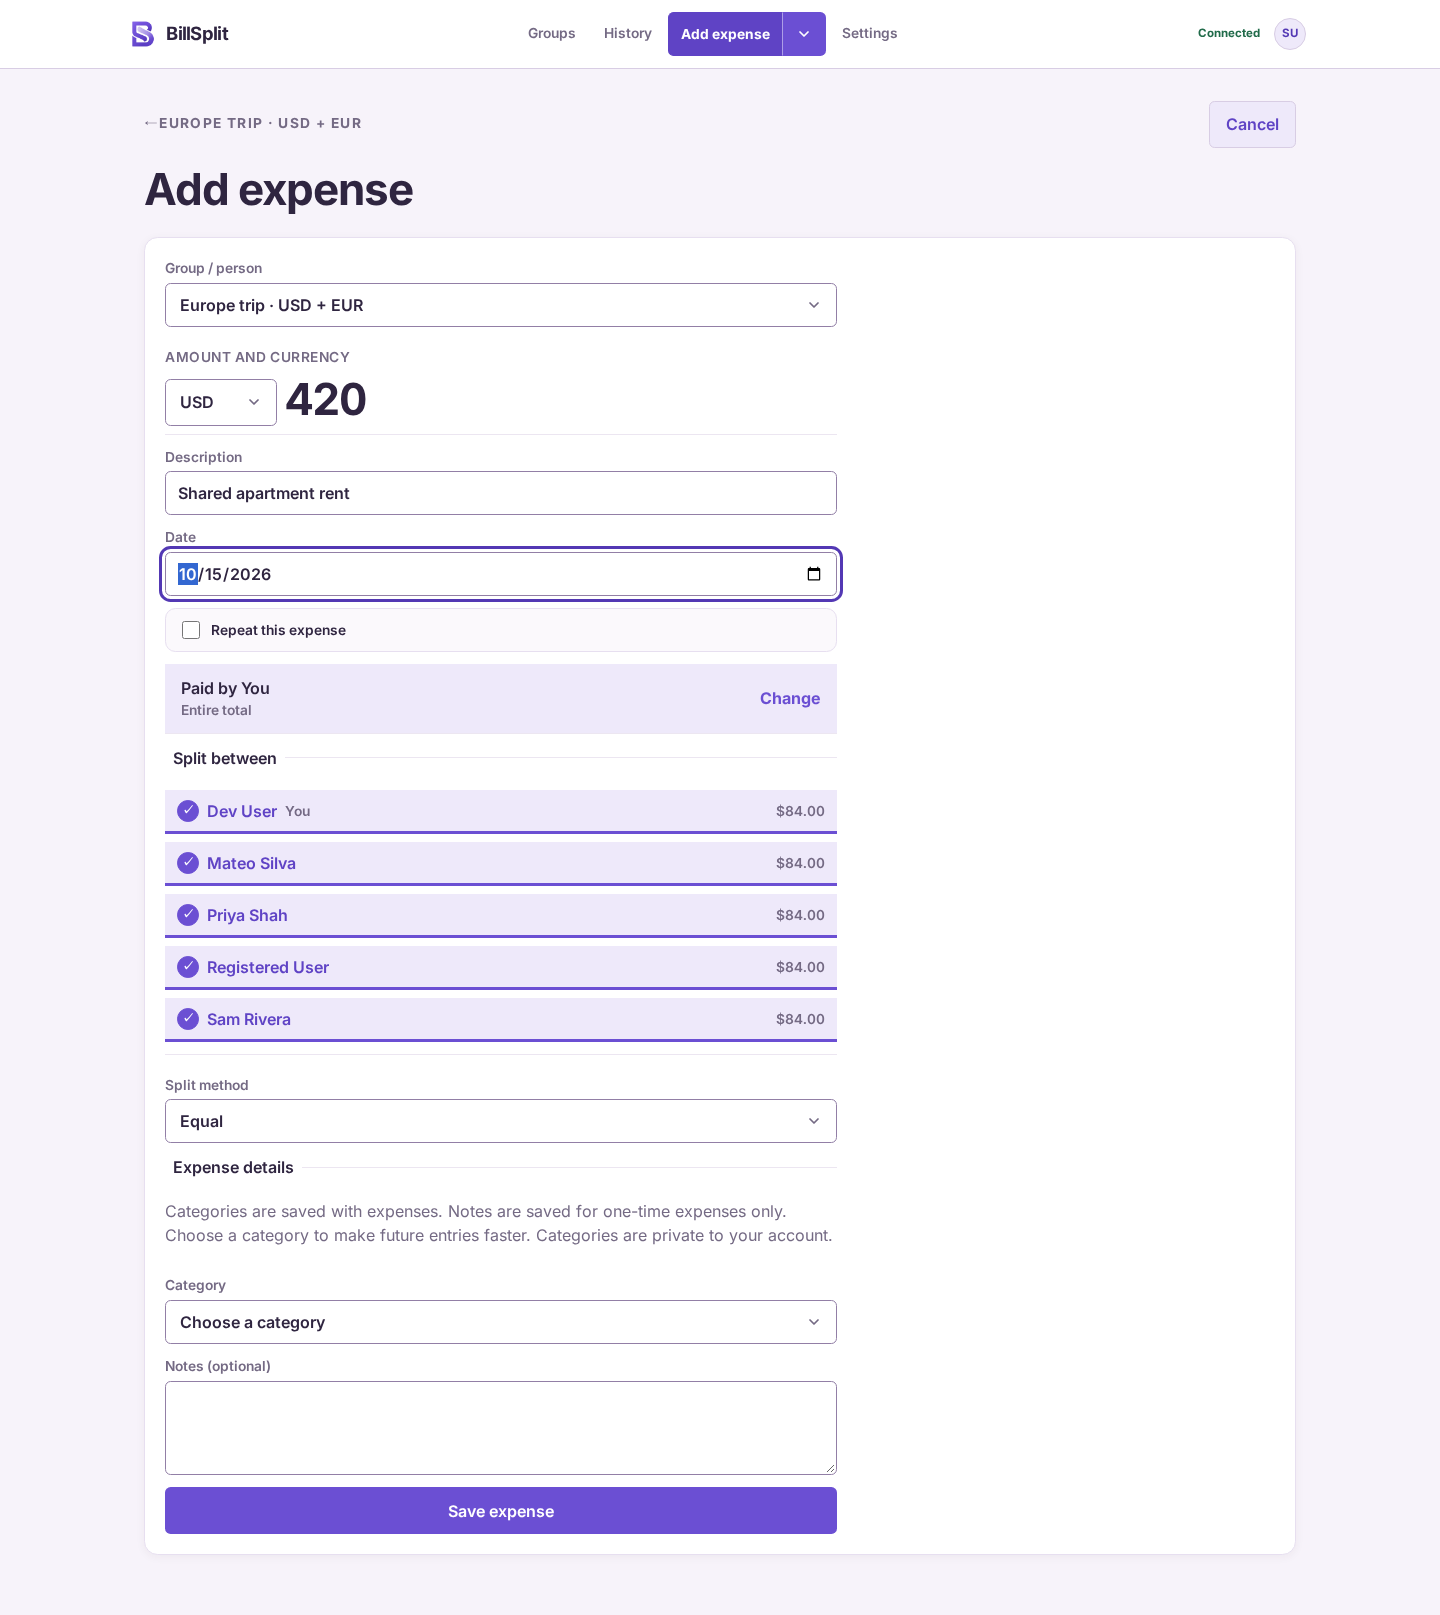
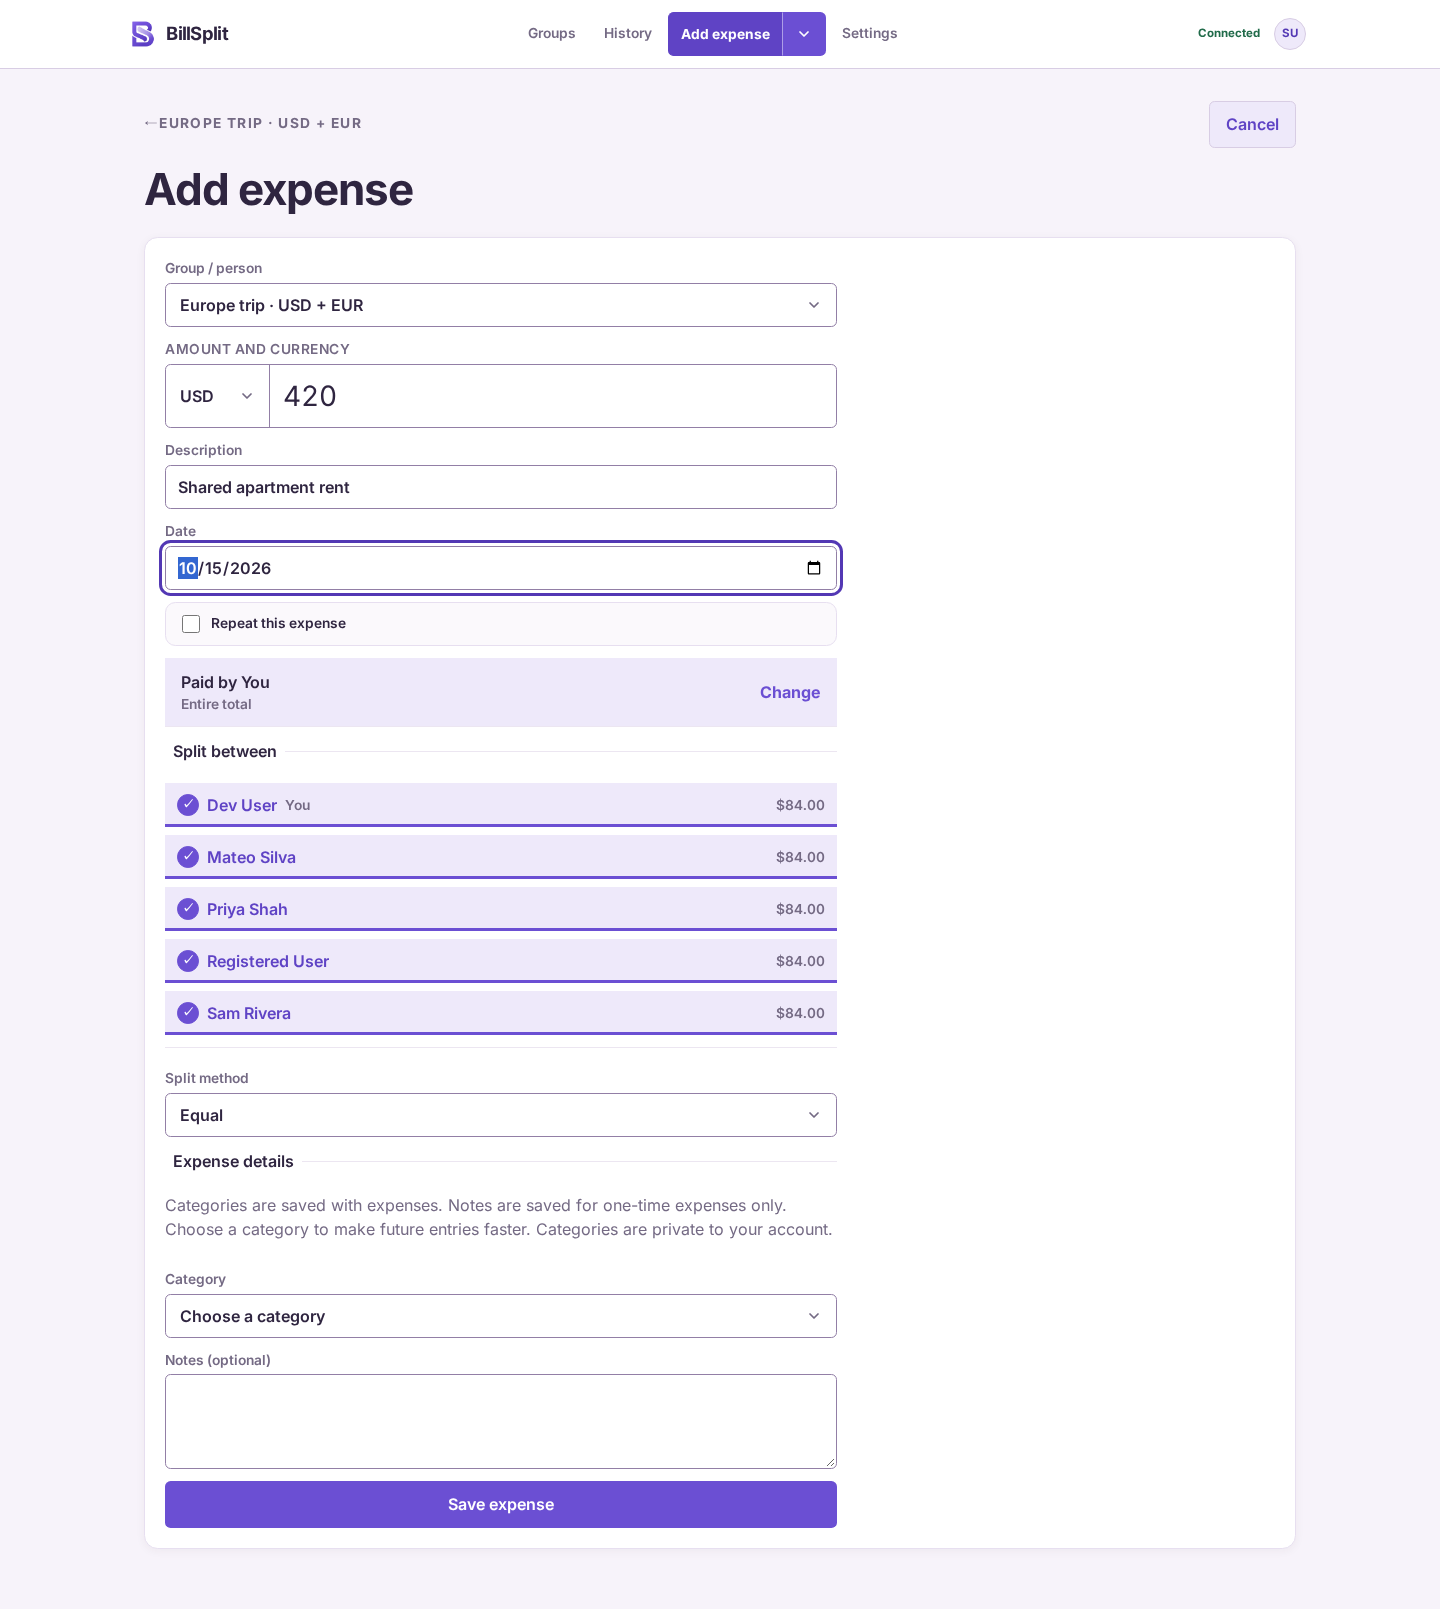
Join expense amount and currency into one control

diff --git a/src/app/App.tsx b/src/app/App.tsx
@@ -124,8 +124,8 @@ function ResourceNotice<T>({ resource, label, retry }: { resource: ResourceSnaps
 function CachedIdentityNotice({ resource, id }: { resource: ResourceSnapshot<unknown>; id: string }) {
   return resource.error ? <ErrorBox error={resource.error} onRetry={retryFor(resourceKeys.identity(), '')} id={id} retryLabel="Retry identity check" /> : null;
 }
-function CurrencySelect({ value, onChange }: { value: Currency; onChange: (value: Currency) => void }) {
-  return <select value={value} onChange={(event) => onChange(event.target.value as Currency)}>{currencyOptions.map((option) => <option key={option.value} value={option.value}>{option.label}</option>)}</select>;
+function CurrencySelect({ value, onChange, 'aria-label': ariaLabel }: { value: Currency; onChange: (value: Currency) => void; 'aria-label'?: string }) {
+  return <select aria-label={ariaLabel} value={value} onChange={(event) => onChange(event.target.value as Currency)}>{currencyOptions.map((option) => <option key={option.value} value={option.value}>{option.label}</option>)}</select>;
 }
 const nameOf = (members: GroupMember[], id: string, fallback = 'Removed participant') => members.find((member) => member.personId === id)?.name || fallback;
 const historicalParticipantName = (participant: HistoricalParticipant) => participant.status === 'deleted' ? `${participant.name} · Deleted account` : participant.status === 'removed' ? `${participant.name} · Removed` : participant.name;
@@ -1016,7 +1016,7 @@ function ExpenseForm() {
            <PageHeader className="page-title expense-heading" eyebrow={<Link to={routeGroupId ? `/groups/${id}` : '/'} className="back">← <span className="back__label">{routeGroupId ? groupDisplayName(group) : 'Groups'}</span></Link>} title={scheduleMode ? (scheduledExpenseId ? 'Edit recurring expense' : 'Schedule an expense') : expenseId ? 'Edit expense' : 'Add expense'} actions={<ActionGroup className="expense-heading__actions"><Link className="button button--secondary" to={routeGroupId ? `/groups/${id}` : '/'}>Cancel</Link></ActionGroup>} />{meResource.error ? <CachedIdentityNotice resource={meResource} id="expense-identity-error" /> : null}{groupResource.error ? <ResourceNotice resource={groupResource} label="group details" retry={retryFor(resourceKeys.group(formUserId, id), meResource.data?.id)} /> : null}{expenseId && detailResource.error ? <ResourceNotice resource={detailResource} label="expense form data" retry={retryFor(resourceKeys.expenseDetail(formUserId, expenseId), meResource.data?.id)} /> : null}{scheduledExpenseId && scheduleResource.error ? <ResourceNotice resource={scheduleResource} label="scheduled expense form data" retry={retryFor(resourceKeys.scheduledExpense(formUserId, scheduledExpenseId), meResource.data?.id)} /> : null}
           {updatedElsewhere ? <div className="offline-banner updated-elsewhere" role="status"><span>Updated elsewhere. Your changes are preserved.</span><Button type="button" variant="secondary" onClick={resetToServer}>Reload</Button></div> : null}{editUnavailable ? <ConnectionBanner detail={scheduleMode ? 'Schedule management is online-only. Reconnect before saving changes.' : 'Editing expenses is online-only. Reconnect before saving changes.'} /> : null}<FormSurface className="expense-form-surface"><form className="expense-form reading-width" onSubmit={submit} aria-describedby={formError ? 'expense-form-error' : preview.error ? 'allocation-error' : undefined}>
            {!expenseId && !scheduledExpenseId ? <Field label="Group / person" className="field--compact"><select required aria-label="Expense group" value={id} onChange={(event) => { setTargetGroupId(event.target.value); setDirty(false); }}><option value="" disabled>Choose a group</option>{sortOptionsByLabel(groupsResource.data?.groups || [], groupDisplayName, (option) => option.id).map((option) => <option value={option.id} key={option.id}>{groupDisplayName(option)}</option>)}</select></Field> : null}
-          <Field label="Amount and currency" className={amountFieldClass(amount)}><CurrencySelect value={currency} onChange={(value) => { markDirty(); setCurrency(value); }} /><input id="expense-amount" className={amountInputClass(amount)} data-amount-length={amountInputLength(amount)} required inputMode="decimal" aria-label="Expense amount" aria-invalid={formError?.target === 'amount'} aria-describedby={formError?.target === 'amount' ? 'expense-form-error' : undefined} placeholder="0.00" value={amount} onChange={(event) => setAmountAndPayer(event.target.value)} /></Field>
+          <div className={`field ${amountFieldClass(amount)}`}><label htmlFor="expense-amount">Amount and currency</label><div className="expense-amount-control"><CurrencySelect aria-label="Expense currency" value={currency} onChange={(value) => { markDirty(); setCurrency(value); }} /><input id="expense-amount" className={amountInputClass(amount)} data-amount-length={amountInputLength(amount)} required inputMode="decimal" aria-label="Expense amount" aria-invalid={formError?.target === 'amount'} aria-describedby={formError?.target === 'amount' ? 'expense-form-error' : undefined} placeholder="0.00" value={amount} onChange={(event) => setAmountAndPayer(event.target.value)} /></div></div>
             <Field label="Description" className="field--compact"><input id="expense-description" required aria-invalid={formError?.target === 'description'} aria-describedby={formError?.target === 'description' ? 'expense-form-error' : undefined} placeholder="What was this for?" value={description} onChange={(event) => { const value = event.target.value; markDirty(); setDescription(value); if (!categoryTouchedRef.current) { setCategorySuggestion(undefined); setCategory(''); } }} onBlur={() => void requestCategorySuggestion()} /></Field>
             <Field label={scheduleMode ? 'Start date' : 'Date'} className="field--compact"><input id="expense-date" required type="date" value={date} onChange={(event) => { markDirty(); setDate(event.target.value); }} /></Field>
             {!expenseId && !scheduledExpenseId ? <label className="checkbox-row recurrence-toggle" htmlFor="repeat-expense"><input id="repeat-expense" type="checkbox" checked={recurrenceEnabled} onChange={(event) => { markDirty(); setRecurrenceEnabled(event.target.checked); }} /><span>Repeat this expense</span></label> : null}

diff --git a/tests/e2e/expense-amount-layout.spec.ts b/tests/e2e/expense-amount-layout.spec.ts
@@ -12,15 +12,20 @@ for (const width of [320, 390, 767, 768, 895, 896, 1440]) {
         await amount.fill(value);
         await expect(amount).toHaveAttribute('data-amount-length', length);
         const geometry = await amount.evaluate((input) => {
-          const field = input.parentElement!;
+           const shell = input.parentElement!;
+           const field = shell.parentElement!;
           const currency = field.querySelector('select')!;
-          const label = field.querySelector('span')!;
+           const label = field.querySelector('label')!;
           const amountRect = input.getBoundingClientRect();
           const currencyRect = currency.getBoundingClientRect();
           const style = getComputedStyle(input);
           return {
             alignment: style.textAlign,
-            fontSize: parseFloat(style.fontSize),
+             fontSize: parseFloat(style.fontSize),
+             shellWidth: shell.getBoundingClientRect().width,
+             fieldWidth: field.getBoundingClientRect().width,
+             border: getComputedStyle(shell).borderTopWidth,
+             weight: style.fontWeight,
             amount: { x: amountRect.x, y: amountRect.y, right: amountRect.right, height: amountRect.height },
             currency: { x: currencyRect.x, y: currencyRect.y, right: currencyRect.right, height: currencyRect.height },
             labelGap: Math.min(amountRect.y, currencyRect.y) - label.getBoundingClientRect().bottom,
@@ -28,7 +33,11 @@ for (const width of [320, 390, 767, 768, 895, 896, 1440]) {
             overflow: document.documentElement.scrollWidth - window.innerWidth,
           };
         });
-        expect(geometry.alignment).toBe('left');
+         expect(geometry.alignment).toBe('left');
+         expect(geometry.shellWidth).toBe(geometry.fieldWidth);
+         expect(geometry.border).toBe('1px');
+         expect(geometry.weight).toBe('400');
+         expect(geometry.fontSize).toBeGreaterThanOrEqual(16);
         expect(geometry.amount.height).toBeGreaterThanOrEqual(44);
         expect(geometry.currency.height).toBeGreaterThanOrEqual(44);
         expect(geometry.amount.right).toBeLessThanOrEqual(width);
@@ -41,7 +50,9 @@ for (const width of [320, 390, 767, 768, 895, 896, 1440]) {
           expect(geometry.amount.x - geometry.currency.right).toBeGreaterThanOrEqual(0);
           expect(geometry.amount.x - geometry.currency.right).toBeLessThanOrEqual(8);
           expect(geometry.fieldHeight).toBeLessThan(100);
-          if (width >= 768 && length === 'normal') expect(geometry.fontSize).toBe(44);
+           expect(geometry.currency.right - geometry.currency.x).toBeCloseTo(104, 0);
+           expect(geometry.fontSize).toBeGreaterThanOrEqual(24);
+           expect(geometry.fontSize).toBeLessThanOrEqual(28);
         }
         await expect(amount).toHaveValue(value);
         // The decimal input is native text (no type attribute), so oversized
@@ -79,6 +90,53 @@ for (const width of [320, 390, 767, 768, 895, 896, 1440]) {
       // Returning to a typical amount restores the inline layout.
       await amount.fill('12.50');
       await expect(page.locator('.amount-field')).toHaveClass(/amount-field--normal/);
+      const currency = page.getByLabel('Expense currency');
+      const shell = page.locator('.expense-amount-control');
+      await currency.focus();
+      await expect(currency).toBeFocused();
+      await expect(shell).toHaveCSS('outline-style', 'solid');
+      await expect(shell).toHaveCSS('outline-width', '2px');
+      await currency.press('Tab');
+      await expect(amount).toBeFocused();
+      await expect(shell).toHaveCSS('outline-width', '2px');
+      await amount.press('Shift+Tab');
+      await expect(currency).toBeFocused();
+      await page.getByLabel('Description', { exact: true }).fill('Amount validation');
+      await amount.fill('not an amount');
+      await page.getByRole('button', { name: 'Save expense', exact: true }).click();
+      await expect(amount).toHaveAttribute('aria-invalid', 'true');
+      const invalidColor = await amount.evaluate((input) => {
+        const probe = document.createElement('span');
+        probe.style.color = 'var(--color-debt-fg)';
+        input.parentElement!.append(probe);
+        const color = getComputedStyle(probe).color;
+        probe.remove();
+        return color;
+      });
+      await expect(shell).toHaveCSS('border-top-color', invalidColor);
+      await amount.focus();
+      await expect(shell).toHaveCSS('outline-color', invalidColor);
+      await currency.focus();
+      await expect(shell).toHaveCSS('outline-color', invalidColor);
+      await page.emulateMedia({ forcedColors: 'active' });
+      const systemColors = await shell.evaluate((control) => {
+        const probe = document.createElement('span');
+        // Resolve the actual system palette without forced-color substitution.
+        probe.style.forcedColorAdjust = 'none';
+        control.append(probe);
+        probe.style.color = 'CanvasText';
+        const border = getComputedStyle(probe).color;
+        probe.style.color = 'Highlight';
+        const outline = getComputedStyle(probe).color;
+        probe.remove();
+        return { border, outline };
+      });
+      await expect(shell).toHaveCSS('border-top-color', systemColors.border);
+      await expect(shell).toHaveCSS('outline-color', systemColors.outline);
+      await amount.focus();
+      await expect(shell).toHaveCSS('outline-color', systemColors.outline);
+      await expect(shell).toHaveCSS('outline-style', 'solid');
+      await expect(shell).toHaveCSS('outline-width', '2px');
     } finally {
       await context.close();
     }

diff --git a/src/app/theme/transaction-forms.css b/src/app/theme/transaction-forms.css
@@ -636,22 +636,85 @@ input[inputmode="decimal"] {
 }
 
 .route-view--expense .amount-field {
-  --text-amount: clamp(2.25rem, 7vw, 2.75rem);
+  grid-template-columns: minmax(0, 1fr);
+  grid-template-areas: none;
   min-height: 0;
   align-content: center;
   row-gap: var(--space-1);
   border: 0;
-  border-bottom: 1px solid var(--color-divider);
   border-radius: 0;
   background: transparent;
-  padding: var(--space-2) 0;
+  padding: 0;
 }
 
-.route-view--expense .amount-field > input {
+.expense-amount-control {
+  display: grid;
+  min-width: 0;
+  grid-template-columns: 6.5rem minmax(0, 1fr);
+  border: 1px solid var(--color-control-border);
+  border-radius: var(--radius-sm);
+  background-color: var(--color-surface);
+}
+
+.expense-amount-control:focus-within {
+  outline: 2px solid var(--color-primary);
+  outline-offset: 2px;
+}
+
+.expense-amount-control:has(input[aria-invalid="true"]) {
+  border-color: var(--color-debt-fg);
+  outline-color: var(--color-debt-fg);
+}
+
+.expense-amount-control > :is(input, select) {
+  min-width: 0;
+  min-height: var(--control-min-height);
+  border: 0;
+  border-radius: 0;
+  background-color: transparent;
+  outline: none;
+}
+
+.expense-amount-control > select {
+  border-right: 1px solid var(--color-control-border);
+}
+
+.expense-amount-control > input {
+  font-size: 1.75rem;
+  font-weight: 400;
+  letter-spacing: 0;
   text-align: left;
 }
 
-.route-view--expense .amount-field > span {
+.expense-amount-control > input.amount-input--long {
+  font-size: 1.5rem;
+}
+
+.amount-field--very-long .expense-amount-control {
+  grid-template-columns: minmax(0, 1fr);
+}
+
+.amount-field--very-long .expense-amount-control > select {
+  border-right: 0;
+  border-bottom: 1px solid var(--color-control-border);
+}
+
+.expense-amount-control > input.amount-input--very-long {
+  font-size: max(16px, 1rem);
+}
+
+@media (forced-colors: active) {
+  .expense-amount-control:focus-within {
+    outline-color: Highlight;
+  }
+
+  .expense-amount-control:has(input[aria-invalid="true"]) {
+    border-color: CanvasText;
+    outline-color: Highlight;
+  }
+}
+
+.route-view--expense .amount-field > label {
   color: var(--color-text-secondary);
   font-size: var(--text-sm);
   letter-spacing: 0.04em;

diff --git a/src/app/theme/responsive.css b/src/app/theme/responsive.css
@@ -129,10 +129,6 @@
     margin-inline: auto;
   }
 
-  .route-view--expense .amount-field {
-    padding-inline: var(--space-4);
-  }
-
   .route-view--expense .modal-sheet:has(.payer-list) {
     border-radius: var(--radius-lg) var(--radius-lg) var(--radius-md) var(--radius-md);
   }

diff --git a/docs/responsive-audit-matrix.md b/docs/responsive-audit-matrix.md
@@ -41,12 +41,17 @@ credit and shell surfaces without replacing those refund-specific checks.
 
 ### Expense date and recurrence disclosure
 
-The expense-only amount row is left aligned beside currency, with a 4px label
-gap and reduced vertical padding (no added surface or split information). Normal
-desktop amounts use 44px type; existing long-amount sizing and very-long stacked
-fallback remain unchanged. `expense-amount-layout.spec.ts` checks normal, long,
+The expense-only amount control shares Description's border, background, and
+radius, without a section bottom rule. Currency occupies a fixed 104px left
+segment with a vertical divider; the remaining amount is left aligned in normal
+28px type (24px for long values). Very-long values stack inside the same shell,
+with a horizontal divider and type at least 16px. Each child remains independently
+keyboard accessible, with an explicit amount label and currency accessible name.
+The shared focus-within outline follows either child; amount validation colors
+the outer border and focus outline, including forced-color equivalents.
+`expense-amount-layout.spec.ts` checks normal, long,
 and very-long values at **320, 390, 767, 768, 895, 896, and 1440px**, including
-44px touch targets, inline proximity, stacked fallback, no page overflow, and
+44px touch targets, joined-shell geometry, keyboard focus, stacked fallback, no page overflow, and
 returning to normal input. Boundary values of 9 and 15 characters retain the
 existing normal/long thresholds. Oversized inline values can still scroll
 internally in the native text input, especially at 320px; full simultaneous
